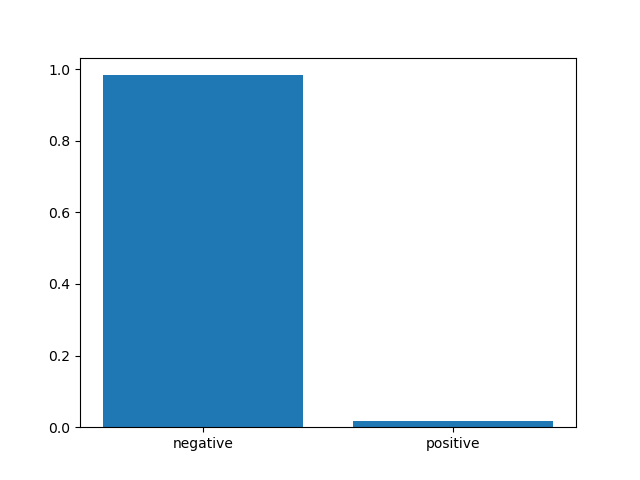
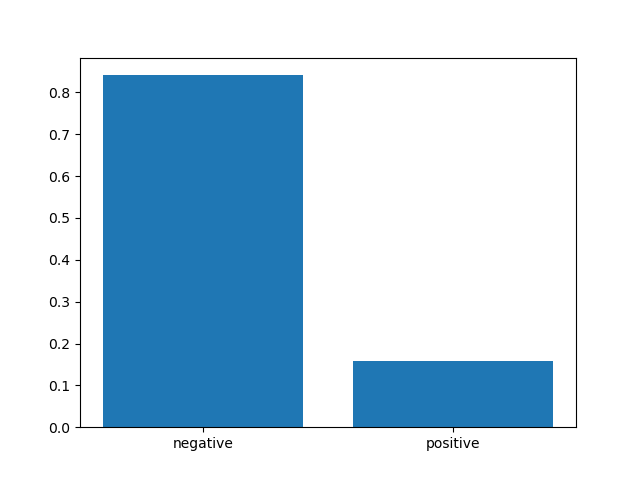
Add files via upload

diff --git a/tajika/task2.py b/tajika/task2.py
@@ -35,7 +35,7 @@ class sentence:
 	def plotScoreRatio(self,keyword):
 		hasthewordlst=self.data["sentence"].str.contains(keyword)
 		intersected=hasthewordlst & self.data['score']==1
-		posrate=np.count_nonzero(intersected)/len(self.data)
+		posrate=np.count_nonzero(intersected)/np.count_nonzero(hasthewordlst)
 		negarate=1-posrate
 		plt.bar((0,1),(negarate,posrate),tick_label=("negative","positive"),align="center")
 
